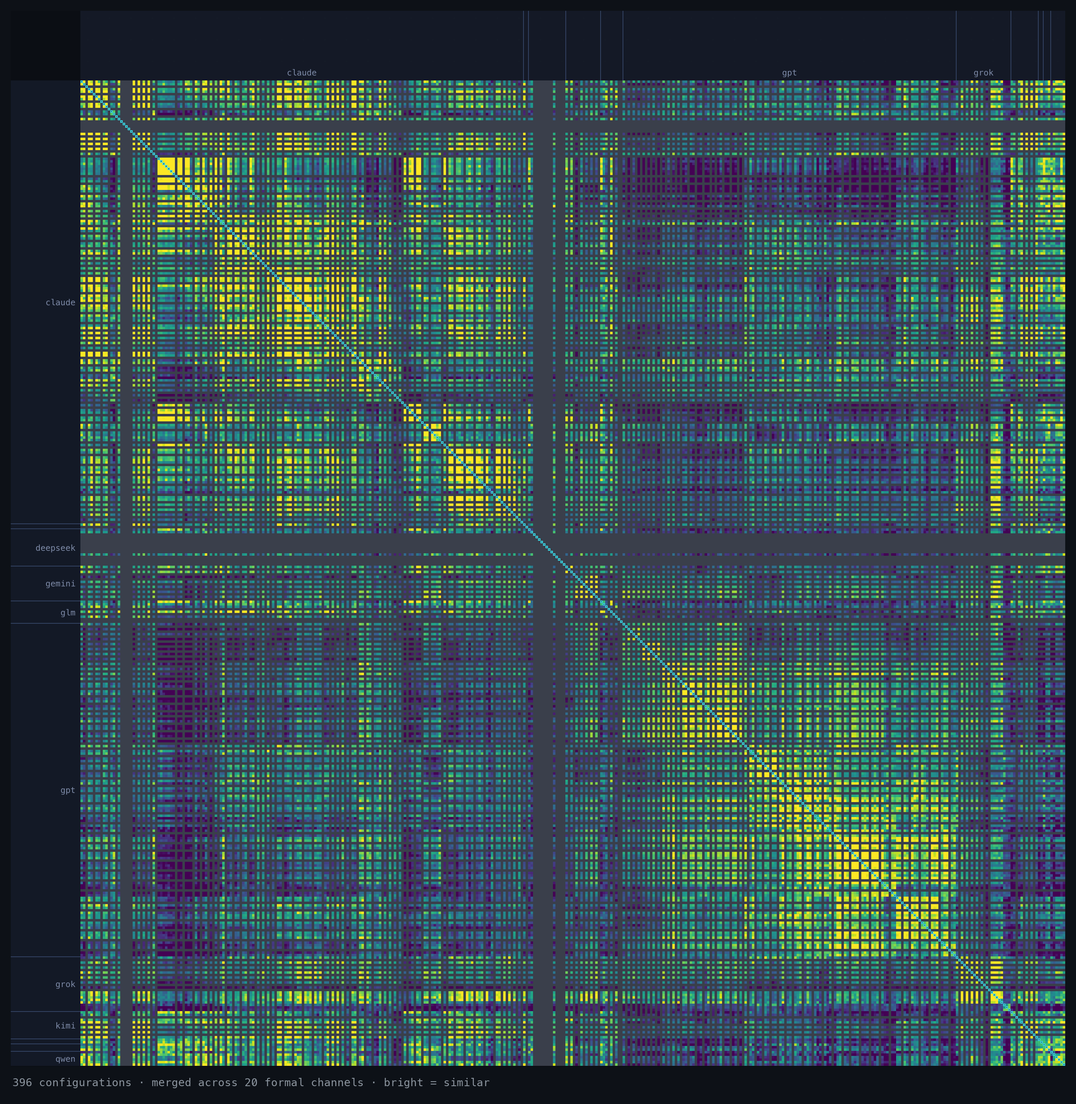
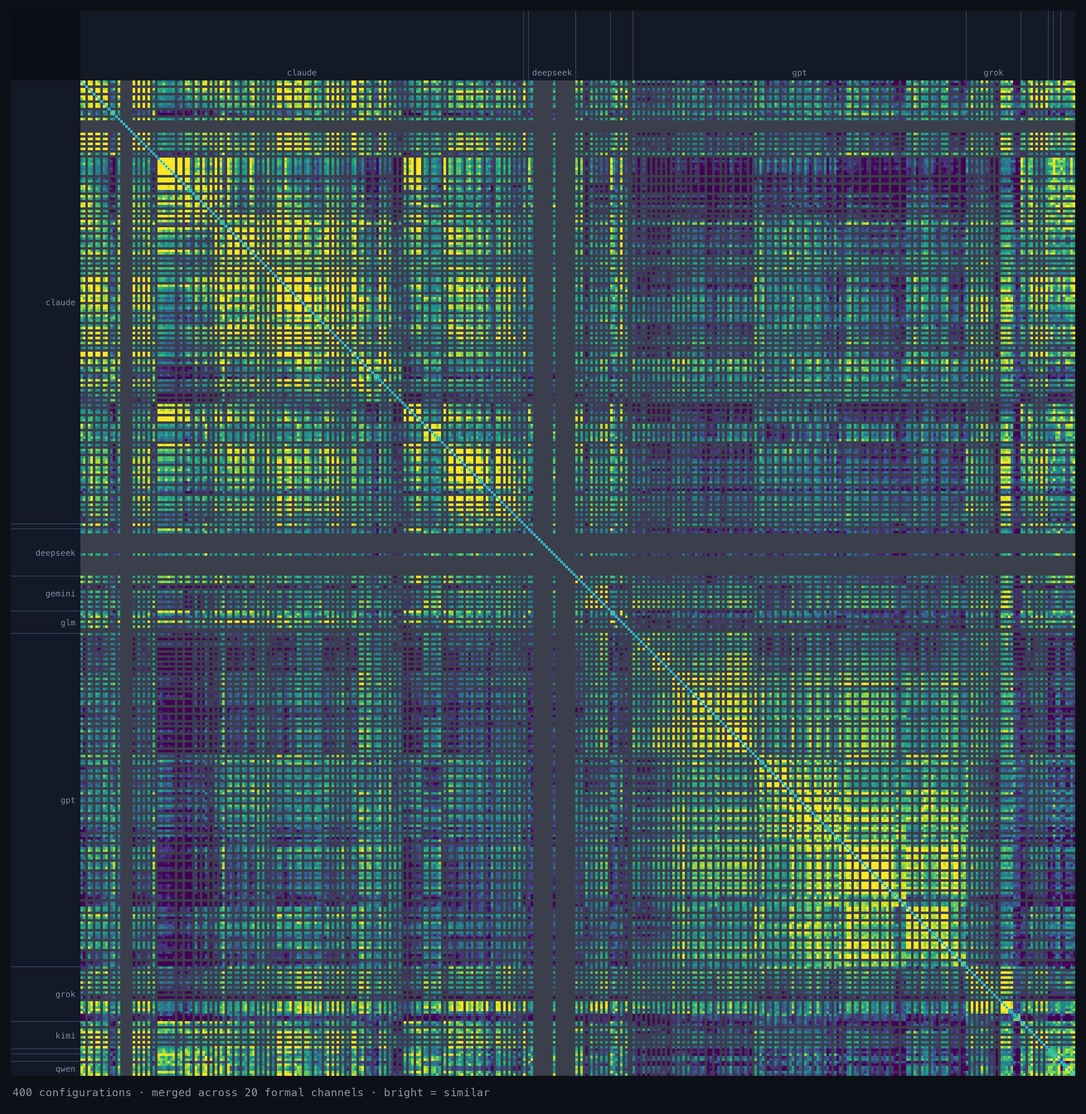
align public artifacts with the 513-config board (DeepSeek V4.1 Flash)
- dataset pack: fresh 2026-09-13 pack (1.4 GB, sha256 cbc5a181…), 513 configs
- matrix.png: regenerated from the live board (400-config harness view)
- config counts bumped 502 -> 513 (numeric findings stay 2026-08-snapshot-stamped)
- flagship subset: merge-domain lock refreshed to the 513-set domain (subset
  summaries unchanged — the added configs don't move the p1-p99 stretch)

diff --git a/README.zh.md b/README.zh.md
@@ -40,14 +40,14 @@ MIT
 ## 这张地图
 
 <div align="center">
-<img src="docs/matrix.png" alt="config 对 config 相似度热力图(502 config 集的 396 config harness 视图),merged 合并通道" width="82%">
+<img src="docs/matrix.png" alt="config 对 config 相似度热力图(513 config 集的 400 config harness 视图),merged 合并通道" width="82%">
 </div>
 
 每个被测 configuration 对上其余每一个,跨所有通道合并。亮 = 相似,暗 = 分化。对角线上的亮块是各**模型家族**在自我聚类;那条细亮对角线是每个 config 的**自一致性**(一个模型和它*自己*重跑之间有多像)。这里的相似度是**测量,不是质量分** —— 它只刻画收敛,别无其他。
 
 ### 从矩阵里才看得到的
 
-有些东西只在这里现形。下面的数字都是 `P-min` 集上、跨 **20 条正式通道**的 merged **共识分**,计算于集合的 **2026-08 快照** —— 此后板面继续在长(现为 **502 个 configuration**),线上矩阵永远显示当前值。**是信号,不是证明**(单一 prompt 家族、小 N),而且有两个混淆项贯穿始终:低 effort 的卡会向一个通用基线收敛,共享的 harness(opencode / Kiro / Qoder)本身也会带进脚手架。请据此理解。
+有些东西只在这里现形。下面的数字都是 `P-min` 集上、跨 **20 条正式通道**的 merged **共识分**,计算于集合的 **2026-08 快照** —— 此后板面继续在长(现为 **513 个 configuration**),线上矩阵永远显示当前值。**是信号,不是证明**(单一 prompt 家族、小 N),而且有两个混淆项贯穿始终:低 effort 的卡会向一个通用基线收敛,共享的 harness(opencode / Kiro / Qoder)本身也会带进脚手架。请据此理解。
 
 > **这个数是什么。** 通道之间量纲不可比 —— `c-winnow` 的跨对中位数是 0.22,`x-semantics` 是 0.95 —— 所以直接平均,结果基本上等于"谁的方差大就听谁的"。因此每条通道先按它在全集上的 p1–p99 拉伸,再取平均,让每条通道票权相等。拉伸区间是**冻结**在已发布数据里的,所以这里的数字和线上矩阵显示的是同一个数,筛选视图也不会让它变。**共识分不是相似度百分比**:0.50 的意思是"在这个语料里属于中游",不是"像了一半"。
 
@@ -117,8 +117,8 @@ cd site && npm install && npm run dev   # http://localhost:3000
 
 **完整集**可在线浏览,也能作为单个 pack 下载:
 
-- **完整数据集** → <https://weathercard.secondfirst.ai/downloads/wcb-full-dataset-2026-09-05.tar.gz>
-  (~1.3 GB,sha256 `27764e1b…dca20`)。解压出 `2026-07-19--unified/` + `index.json`;把 `WCB_DATA_ROOT` 指向解压目录即可在本地跑整套。
+- **完整数据集** → <https://weathercard.secondfirst.ai/downloads/wcb-full-dataset-2026-09-13.tar.gz>
+  (~1.4 GB,sha256 `cbc5a181…cd3bb9`)。解压出 `2026-07-19--unified/` + `index.json`;把 `WCB_DATA_ROOT` 指向解压目录即可在本地跑整套。
 
 ## 目录
 

diff --git a/README.md b/README.md
@@ -52,7 +52,7 @@ prompt family, small N). Every one links back to the raw data on the site.
 ## The map
 
 <div align="center">
-<img src="docs/matrix.png" alt="config-vs-config similarity heatmap (396-config harness view of the 502-config set), merged consensus channel" width="82%">
+<img src="docs/matrix.png" alt="config-vs-config similarity heatmap (400-config harness view of the 513-config set), merged consensus channel" width="82%">
 </div>
 
 Every measured configuration against every other, merged across all channels.
@@ -65,7 +65,7 @@ here is a **measurement, not a quality score** — it captures convergence, noth
 
 Some things only show up here. The numbers below are the merged **consensus score**
 on the `P-min` set over the **20 formal channels**, computed on the **2026-08
-snapshot** of the set — the board has grown since (now **502 configurations**), and
+snapshot** of the set — the board has grown since (now **513 configurations**), and
 the live matrix always shows the current values. **Signals, not proof** (single
 prompt family, small N), and two confounds run through all of them: low-effort cards
 converge toward a generic baseline, and a shared harness (opencode / Kiro / Qoder)
@@ -207,8 +207,8 @@ so the repo ships a **flagship subset** — one canonical configuration per fron
 
 The **full set** is browsable live, and downloadable as a single pack:
 
-- **Full dataset** → <https://weathercard.secondfirst.ai/downloads/wcb-full-dataset-2026-09-05.tar.gz>
-  (~1.3 GB, sha256 `27764e1b…dca20`). Extracts to `2026-07-19--unified/` +
+- **Full dataset** → <https://weathercard.secondfirst.ai/downloads/wcb-full-dataset-2026-09-13.tar.gz>
+  (~1.4 GB, sha256 `cbc5a181…cd3bb9`). Extracts to `2026-07-19--unified/` +
   `index.json`; point `WCB_DATA_ROOT` at the extracted directory to serve the
   whole set locally.
 
